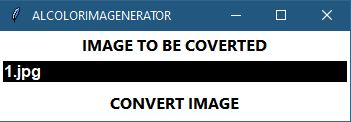
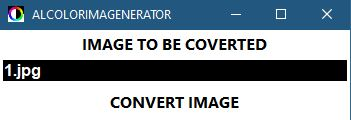
AlColorImageGenerator

diff --git a/AlColorImageGenerator.py b/AlColorImageGenerator.py
@@ -10,6 +10,7 @@ class AlColorImageGenerator:
     def __init__(self):
         root = Tk(className=" ALCOLORIMAGENERATOR ")
         root.geometry("350x90+1560+925")
+        root.iconbitmap(os.path.join(cwd+'\\UI\\icons', 'alcolorimagegenerator.ico'))
         root.config(bg="#FFFFFF")
         color = '#FFFFFF'
 
